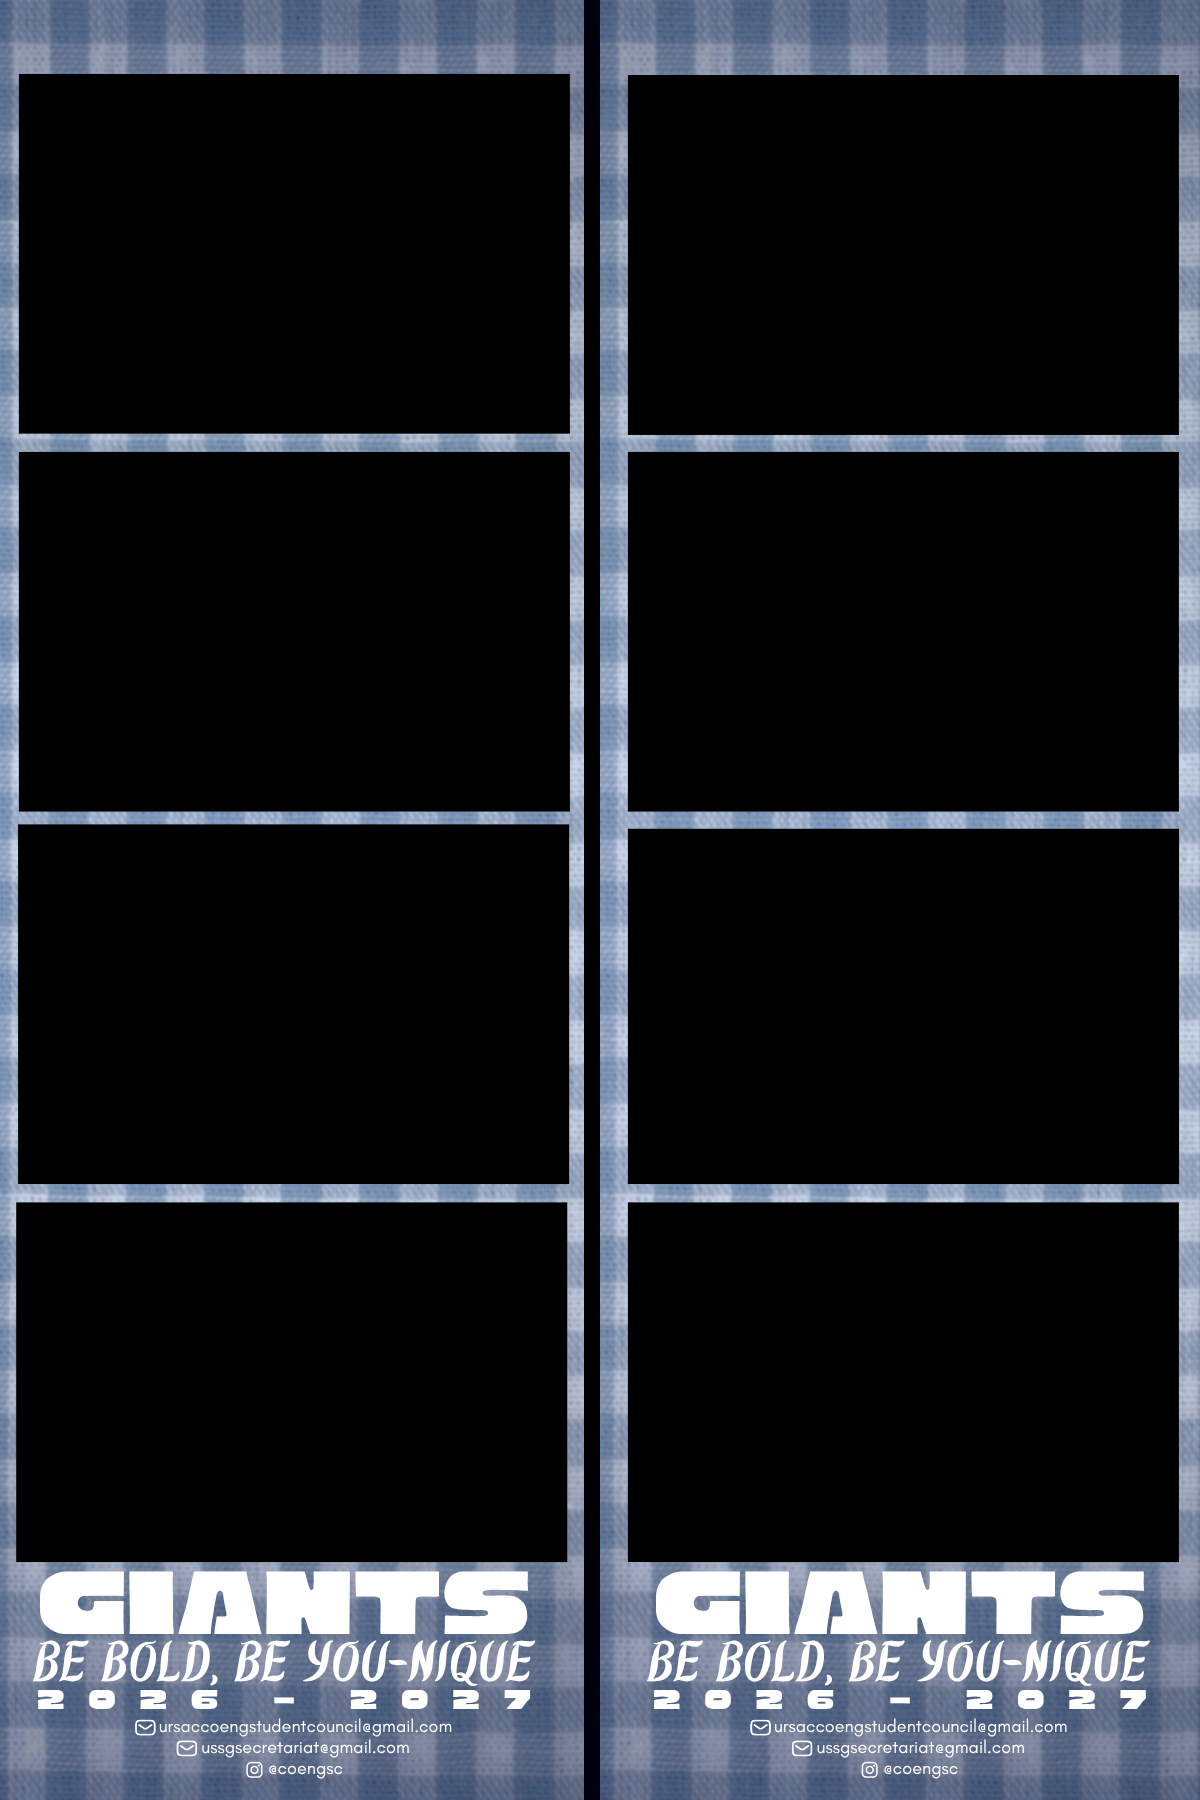
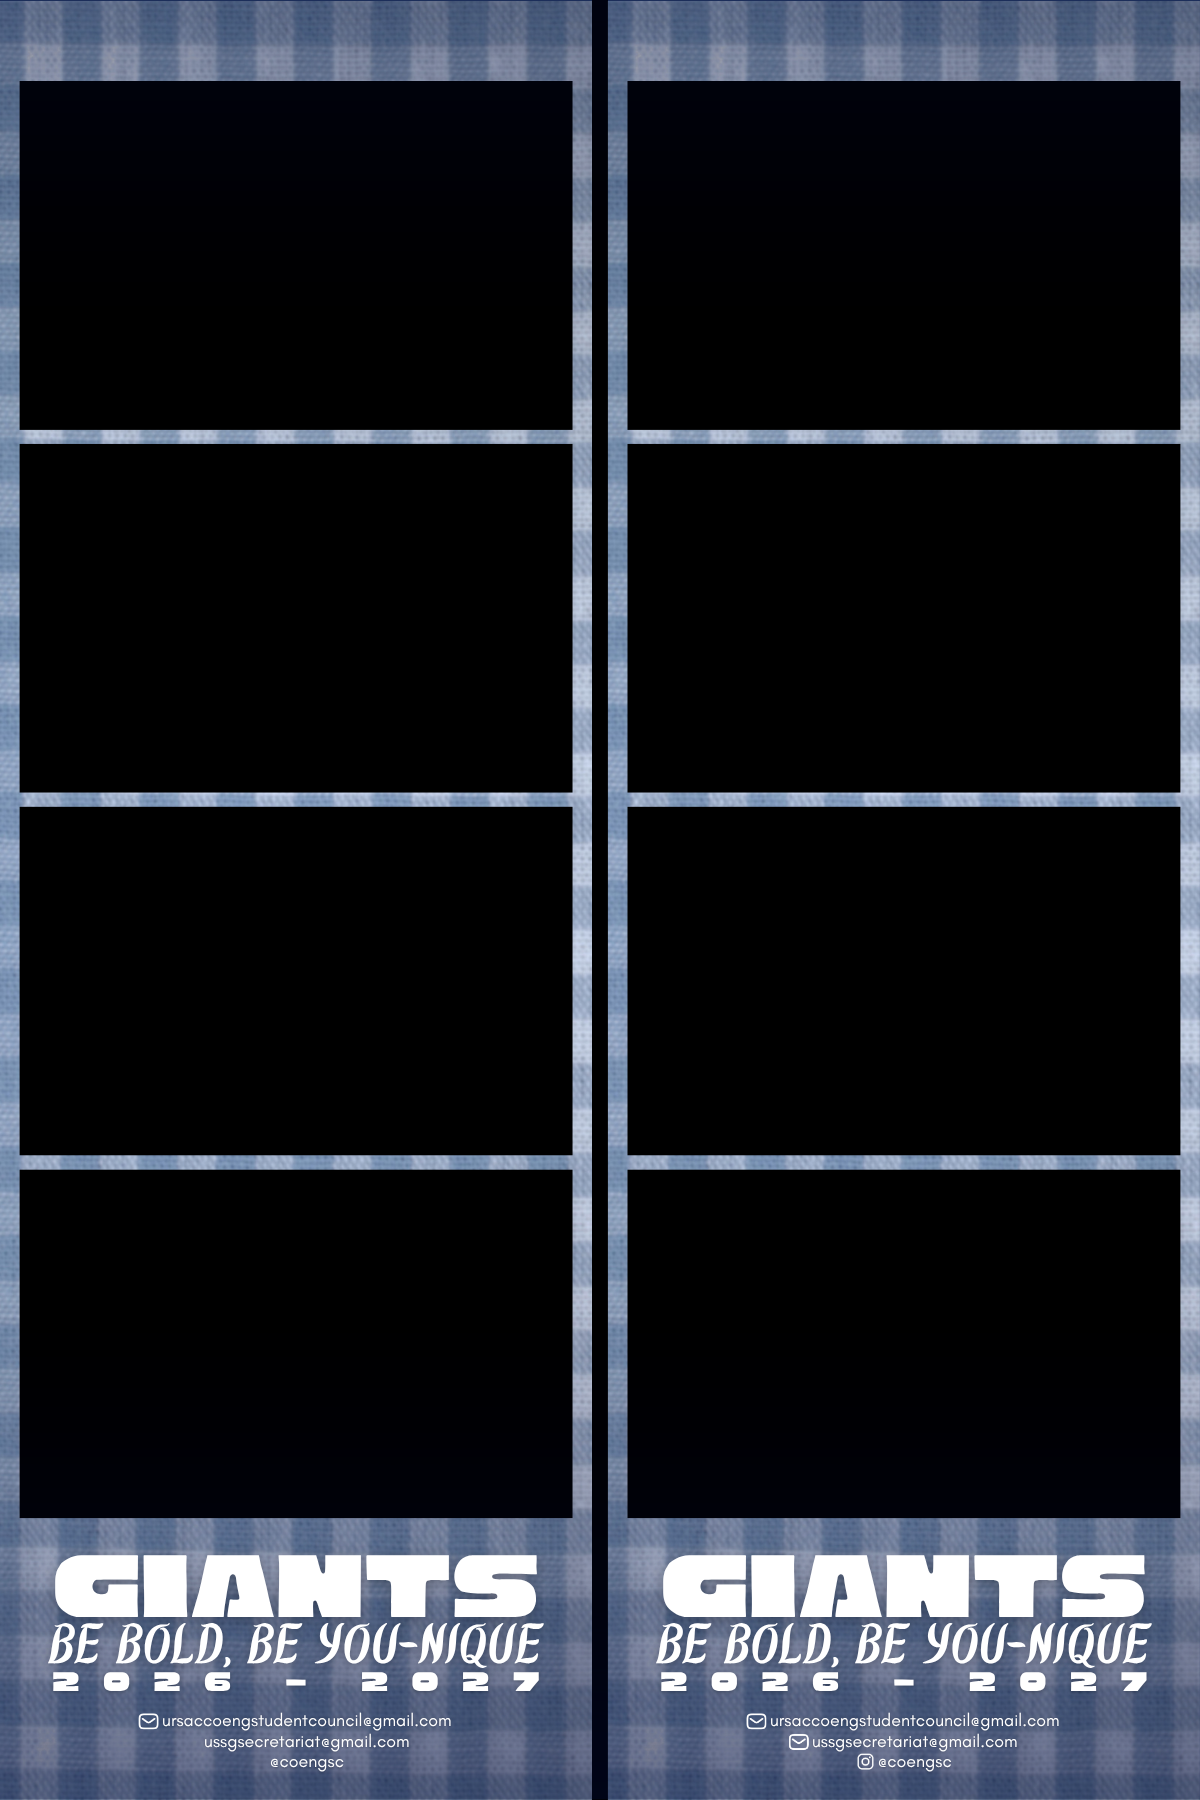
fix template bugs

Changed region(s): [[0.0, 0.0, 1.0, 1.0]]

diff --git a/src/pages/PhotoTemplate.tsx b/src/pages/PhotoTemplate.tsx
@@ -101,15 +101,15 @@ function PhotoTemplate() {
       ctx.drawImage(bgImage, 0, 0, 400, 600);
 
       if (option === 0) {
-        drawImageCover(ctx, image1, 6, 24.5, 184, 120);
-        drawImageCover(ctx, image2, 6, 150.5, 184, 120);
-        drawImageCover(ctx, image3, 6, 274.5, 184, 120);
-        drawImageCover(ctx, image4, 6, 400.5, 184, 120);
+        drawImageCover(ctx, image1, 6.5, 27, 184.4, 116.5);
+        drawImageCover(ctx, image2, 6.5, 148, 184.4, 116.5);
+        drawImageCover(ctx, image3, 6.5, 268.5, 184.4, 116.5);
+        drawImageCover(ctx, image4, 6.5, 389.5, 184.4, 116.5);
 
-        drawImageCover(ctx, image1, 209, 24.5, 184, 120);
-        drawImageCover(ctx, image2, 209, 150.5, 184, 120);
-        drawImageCover(ctx, image3, 209, 274.5, 184, 120);
-        drawImageCover(ctx, image4, 209, 400.5, 184, 120);
+        drawImageCover(ctx, image1, 209, 27, 184.4, 116.5);
+        drawImageCover(ctx, image2, 209, 148, 184.4, 116.5);
+        drawImageCover(ctx, image3, 209, 268.5, 184.4, 116.5);
+        drawImageCover(ctx, image4, 209, 389.5, 184.4, 116.5);
 
         ctx.drawImage(fabric, -4, 10, 60, 40);
         ctx.drawImage(fabric, 199, 10, 60, 40);
@@ -117,8 +117,8 @@ function PhotoTemplate() {
         ctx.drawImage(star, 170, 43, 35, 35);
         ctx.drawImage(star, 376, 43, 35, 35);
 
-        ctx.drawImage(leftStar, -10, 128, 45, 45);
-        ctx.drawImage(leftStar, 196, 128, 45, 45);
+        ctx.drawImage(leftStar, -9, 128, 45, 45);
+        ctx.drawImage(leftStar, 197, 128, 45, 45);
 
         drawImageCover(ctx, sign, 70, 255, 55, 20);
         drawImageCover(ctx, sign, 275, 255, 55, 20);
@@ -128,30 +128,33 @@ function PhotoTemplate() {
 
         ctx.drawImage(star, 166, 472, 40, 40);
         ctx.drawImage(star, 370, 472, 40, 40);
+
+        ctx.fillStyle = "black";
+        ctx.fillRect(196, 0, 7, 600);
       }
 
       if (option === 1) {
-        drawImageCover(ctx, image1, 6, 131, 184, 104.5);
-        drawImageCover(ctx, image2, 6, 236, 184, 104.5);
-        drawImageCover(ctx, image3, 6, 341, 184, 104.5);
-        drawImageCover(ctx, image4, 6, 446, 184, 104.5);
+        drawImageCover(ctx, image1, 6.8, 143, 183.6, 100);
+        drawImageCover(ctx, image2, 6.8, 247, 183.6, 100);
+        drawImageCover(ctx, image3, 6.8, 350.7, 183.6, 100);
+        drawImageCover(ctx, image4, 6.8, 454.5, 183.6, 100);
 
-        drawImageCover(ctx, image1, 210, 131, 184, 104.5);
-        drawImageCover(ctx, image2, 210, 236, 184, 104.5);
-        drawImageCover(ctx, image3, 210, 341, 184, 104.5);
-        drawImageCover(ctx, image4, 210, 446, 184, 104.5);
+        drawImageCover(ctx, image1, 210, 143, 183.6, 100);
+        drawImageCover(ctx, image2, 210, 247, 183.6, 100);
+        drawImageCover(ctx, image3, 210, 350.7, 183.6, 100);
+        drawImageCover(ctx, image4, 210, 454.5, 183.6, 100);
       }
 
       if (option === 2) {
-        drawImageCover(ctx, image1, 8.5, 43, 183.5, 113);
-        drawImageCover(ctx, image1, 8.5, 158.5, 183.5, 113);
-        drawImageCover(ctx, image1, 8.5, 274, 183.5, 113);
-        drawImageCover(ctx, image1, 8.5, 389.5, 183.5, 113);
+        drawImageCover(ctx, image1, 8.3, 43, 183.5, 113);
+        drawImageCover(ctx, image2, 8.3, 158.5, 183.5, 113);
+        drawImageCover(ctx, image3, 8.3, 274, 183.5, 113);
+        drawImageCover(ctx, image4, 8.3, 389.5, 183.5, 113);
 
-        drawImageCover(ctx, image1, 208.5, 15, 184, 113);
-        drawImageCover(ctx, image2, 208.5, 131, 184, 113);
-        drawImageCover(ctx, image3, 208.5, 275, 184, 113);
-        drawImageCover(ctx, image4, 208.5, 390, 184, 113);
+        drawImageCover(ctx, image1, 208.5, 15, 184.2, 113);
+        drawImageCover(ctx, image2, 208.5, 131, 184.2, 113);
+        drawImageCover(ctx, image3, 208.5, 275, 184.2, 113);
+        drawImageCover(ctx, image4, 208.5, 391.1, 184.2, 113);
       }
     };
   }, [loading]);

diff --git a/src/pages/Photobooth.tsx b/src/pages/Photobooth.tsx
@@ -7,8 +7,8 @@ import countdownSound from "../audio/countdown.mp3";
 import captureSound from "../audio/captureSound.mp3";
 
 const videoConstraints = {
-  width: 940,
-  height: 580,
+  width: 900,
+  height: 600,
   facingMode: "user",
 };
 
@@ -20,8 +20,11 @@ function Photobooth() {
   const webcamRef = React.useRef<Webcam>(null);
   const [captureStatus, setCaptureStatus] = useState(false);
 
+  const [buttonIndicator, setButtonIndicator] = useState<boolean>(true);
+
   const captureCountdown = (index: number, retake: boolean) => {
     setCaptureStatus(true);
+    setButtonIndicator(false);
     let seconds = 5;
     setRemaining(seconds);
 
@@ -41,6 +44,7 @@ function Photobooth() {
         setCaptureStatus(false);
         setRemaining(0);
         capture(retake, index);
+        setButtonIndicator(true);
       }
     }, 1000);
   };
@@ -96,7 +100,7 @@ function Photobooth() {
         </div>
 
         <button
-          disabled={imgSrc.length >= 4}
+          disabled={!buttonIndicator || imgSrc.length >= 4}
           onClick={() => captureCountdown(-1, false)}
           className="border-1 rounded-l bg-yellow-300 w-20 flex justify-center p-2 hover:bg-yellow-400 mt-2"
         >
@@ -210,7 +214,6 @@ function Photobooth() {
         </div>
         {imgSrc.length === 4 && (
           <button
-            disabled={captureStatus}
             className="w-70 flex text-black justify-center text-l font-bold hover:bg-yellow-400 items-center 
                 bg-yellow-500 rounded-xl h-10 gap-1 mt-5 self-center "
             onClick={() => {
